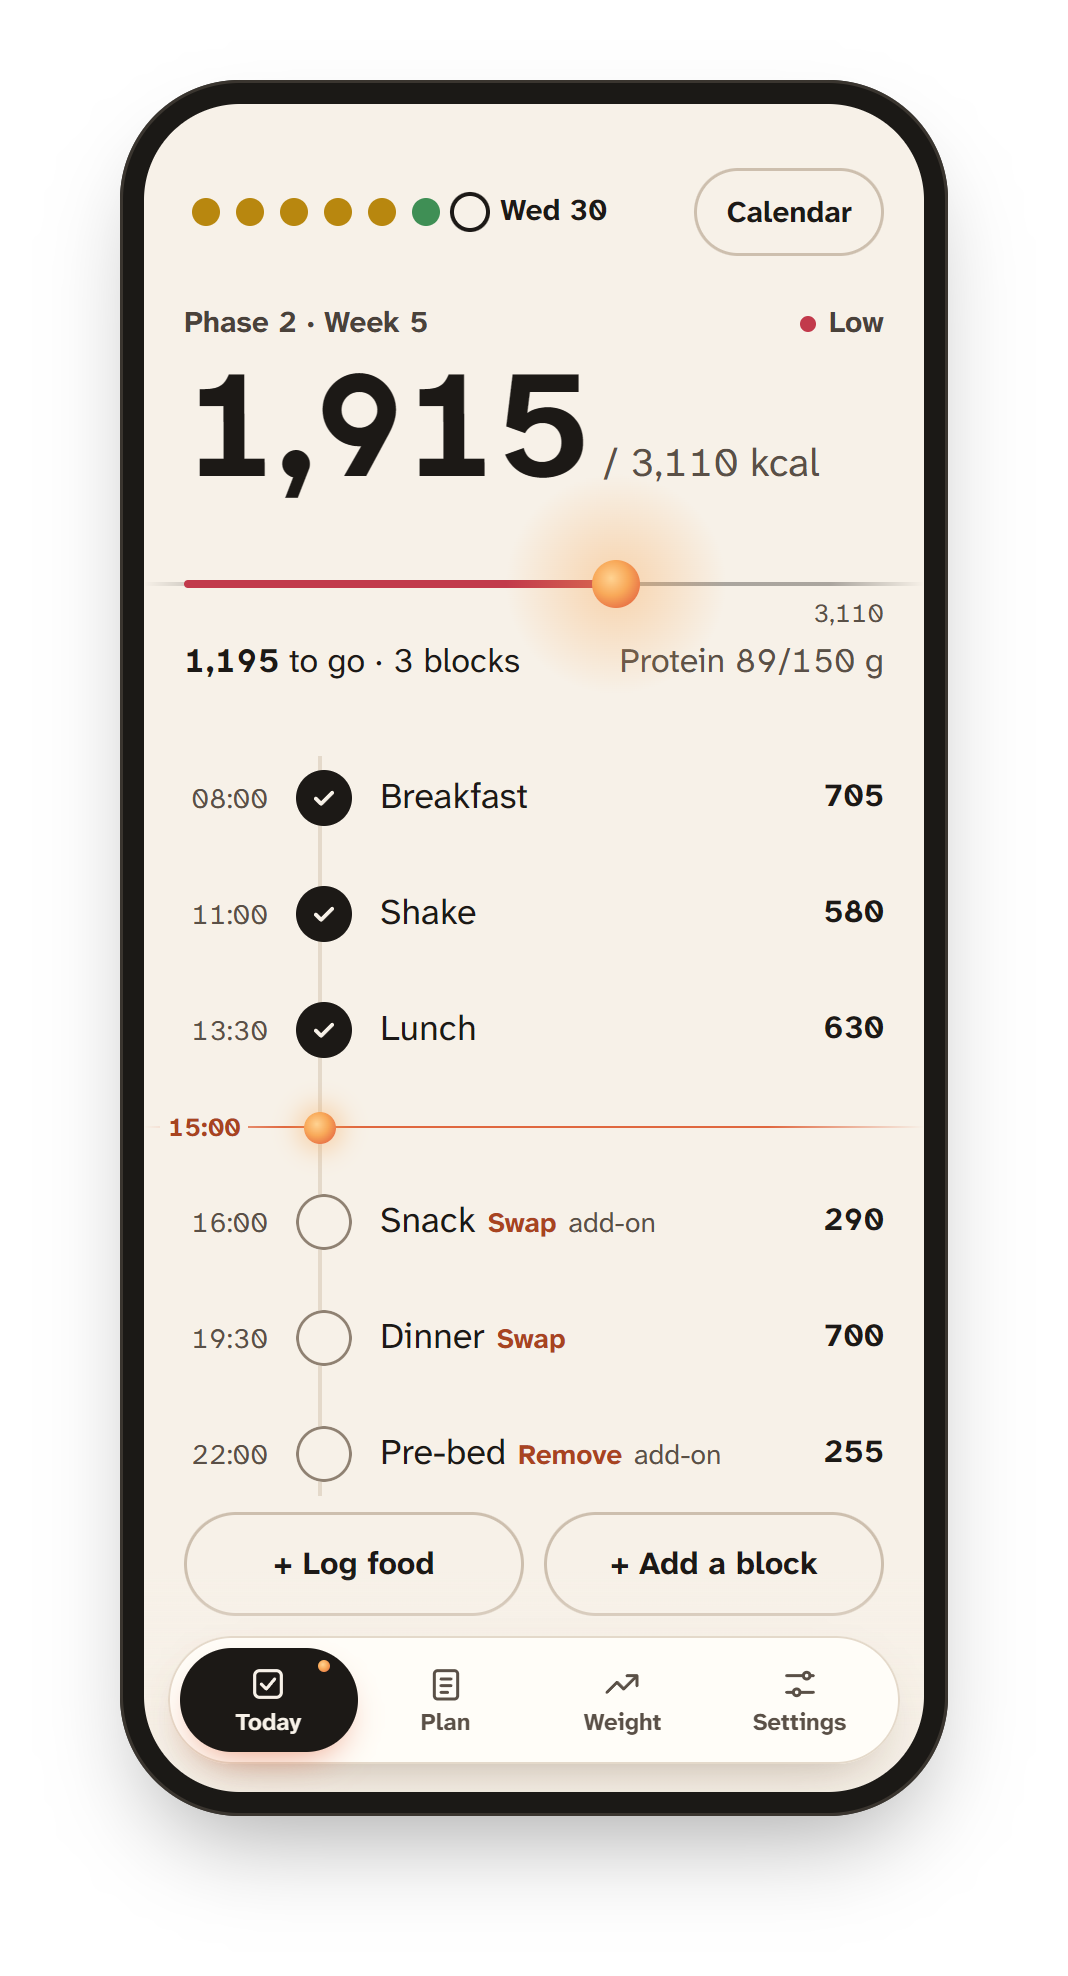
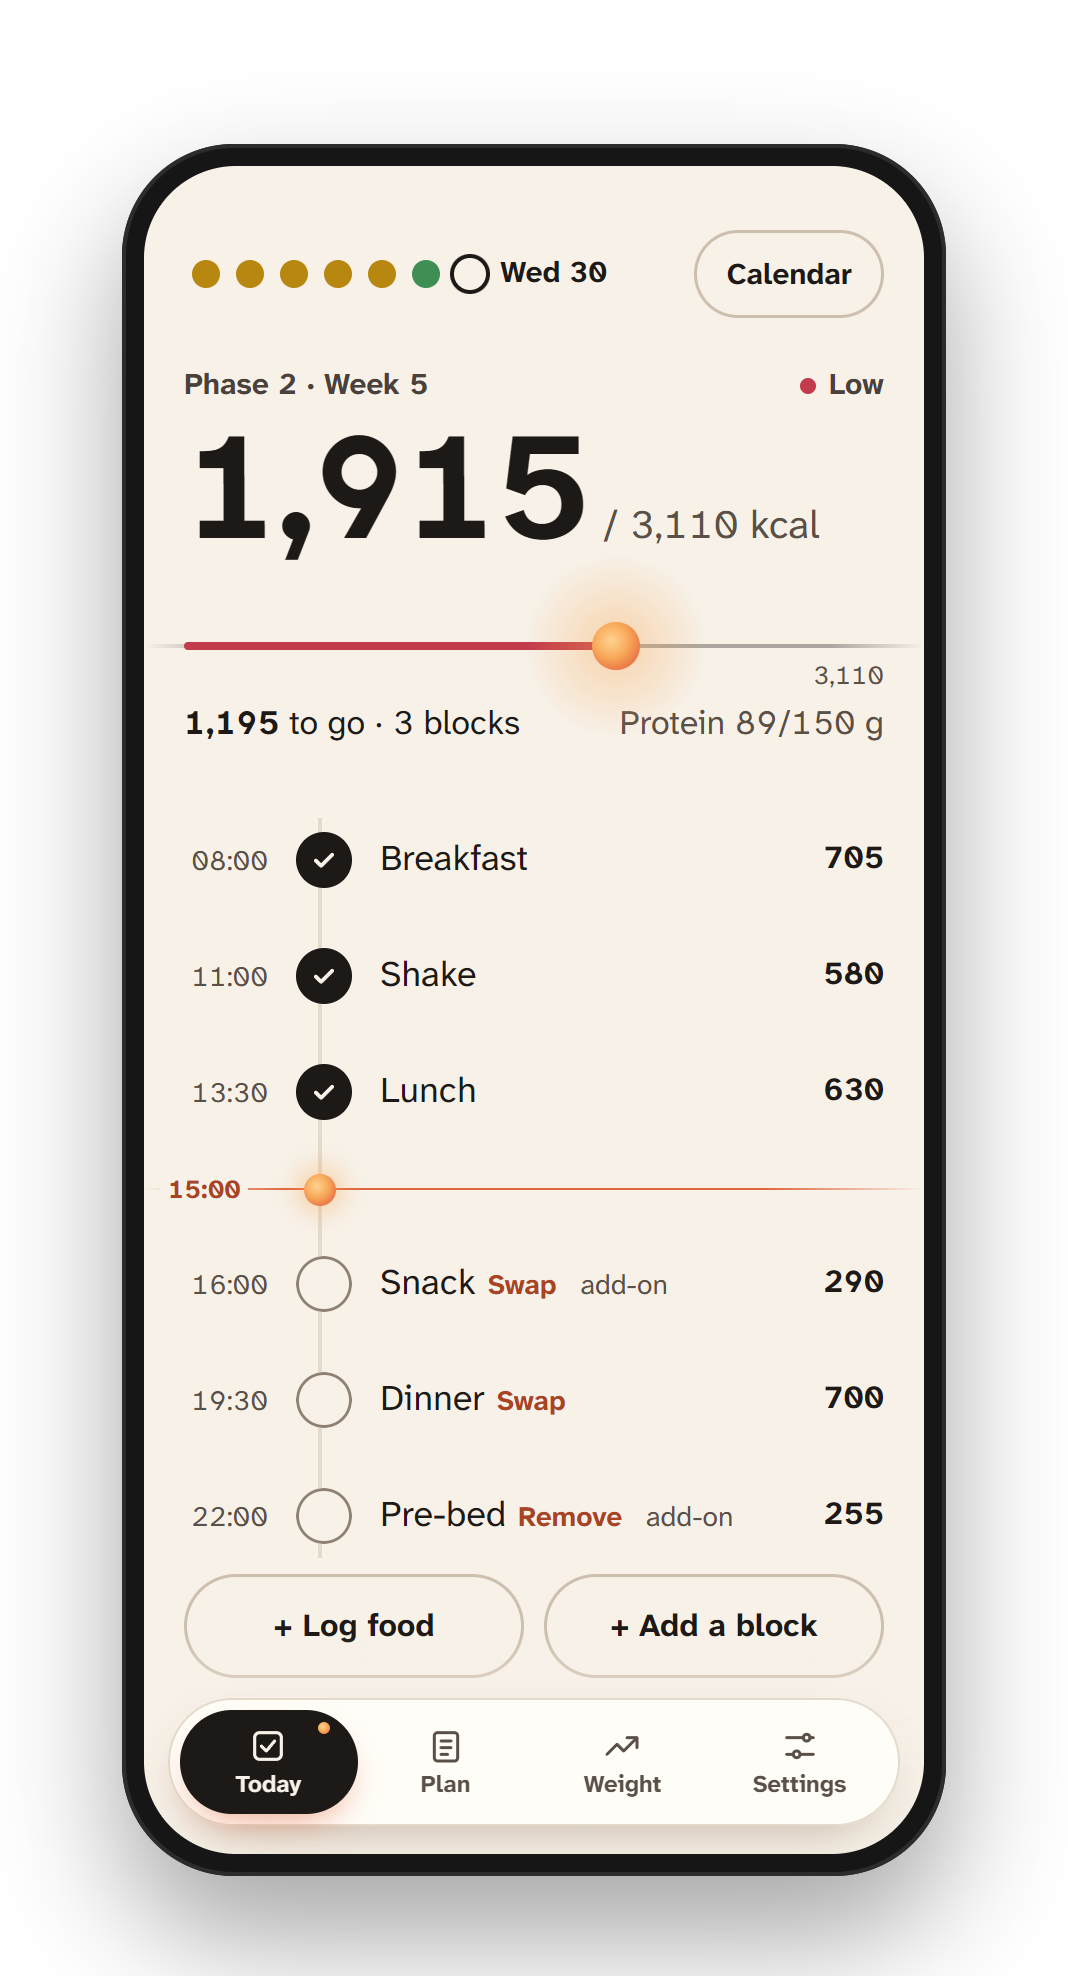
pass 78 step 1: the README pictures retaken from the finished build
- scripts/readme-shots.mjs: new; seeds the demo data, shoots each screen
  at 2x and sets it in a phone or window frame, one picture or all five
- docs/screenshots: hero, today, weight, plan and looks retaken
- README: the dev table lists the new script
- CHANGELOG: pass 78 pictures recorded
- roadmap: pass 78 keeps the README polish and the CI icon builds

diff --git a/README.md b/README.md
@@ -189,15 +189,16 @@ Open the address Vite prints, then `dev-seed.html` on the same server to load
 four weeks of demo data. Reminders show "unavailable" locally; that's
 expected.
 
-| Command                | What it does                                                  |
-| ---------------------- | ------------------------------------------------------------- |
-| `npm run dev`          | Start the dev server                                          |
-| `npm run build`        | Build to `dist/`                                              |
-| `npm run preview`      | Serve the build                                               |
-| `npm run check`        | Tests, ESLint, Prettier and the build                         |
-| `npm run test:offline` | Fail if anything but the update check leaves home             |
-| `npm run test:visual`  | Compare screens with the approved pictures                    |
-| `npm run shot`         | Screenshot the app (options at the top of `scripts/shot.mjs`) |
+| Command                         | What it does                                                  |
+| ------------------------------- | ------------------------------------------------------------- |
+| `npm run dev`                   | Start the dev server                                          |
+| `npm run build`                 | Build to `dist/`                                              |
+| `npm run preview`               | Serve the build                                               |
+| `npm run check`                 | Tests, ESLint, Prettier and the build                         |
+| `npm run test:offline`          | Fail if anything but the update check leaves home             |
+| `npm run test:visual`           | Compare screens with the approved pictures                    |
+| `npm run shot`                  | Screenshot the app (options at the top of `scripts/shot.mjs`) |
+| `node scripts/readme-shots.mjs` | Retake the pictures in this README (needs the dev server)     |
 
 The service worker caches hard, so hard-reload while you work, or bump
 `CACHE_NAME` in `public/sw.js`. The [Android](android/README.md),

diff --git a/docs/roadmap.md b/docs/roadmap.md
@@ -36,13 +36,8 @@ and desktop test pass, and the release.
 Model: Sonnet 5.5, high effort. Target: shots. Runs last, once motion has landed, so the pictures show the finished app.
 
 - [ ] **Pass 78 · `shots`** — final screenshots and the README that uses them.
-  - Reads: `scripts/shot.mjs`, the README, `e2e/snapshots`.
-  - Does: retakes the README screenshot row from the finished build (Today,
-    Weight, Plan, Recipes and Settings, phone and desktop, Paper and Reel,
-    light and dark); re-approves the visual baselines with
-    `test:visual:update` if motion or the rail moved any pixel; updates the
-    README images, alt text and any captions; checks the status line and every
-    link still hold.
+      The pictures are retaken (`scripts/readme-shots.mjs`), the baselines are
+      green and the README links hold. Left:
   - Also: a light polish of the README layout and its composed pictures
     (the owner's call after pass 75: good, could be lifted a little).
   - Also: runs the Android and Windows CI builds once on `release-3.0` and

diff --git a/docs/CHANGELOG.md b/docs/CHANGELOG.md
@@ -337,6 +337,13 @@ Built on `release-3.0` in build passes; the design handoff is the spec.
   the wider desktop chart. The storage line under Export data reads "Under 1
   KB of about 5 MB used." with its capital. No new tokens.
 
+- **pass 78 — final screenshots (pictures):** the five README pictures
+  (hero, Today, Weight, Plan with Recipes, Looks) are retaken from the
+  finished build at 2x by `scripts/readme-shots.mjs`, which seeds the demo
+  data, shoots each screen and sets it in a phone or window frame. The
+  baselines in `e2e/snapshots` were still current, so none were re-approved.
+  The CI icon builds are still to run.
+
 ## Older releases
 
 v2.3.0 and earlier are in `docs/changelog-archive.md`. Add new release sections above this heading.
